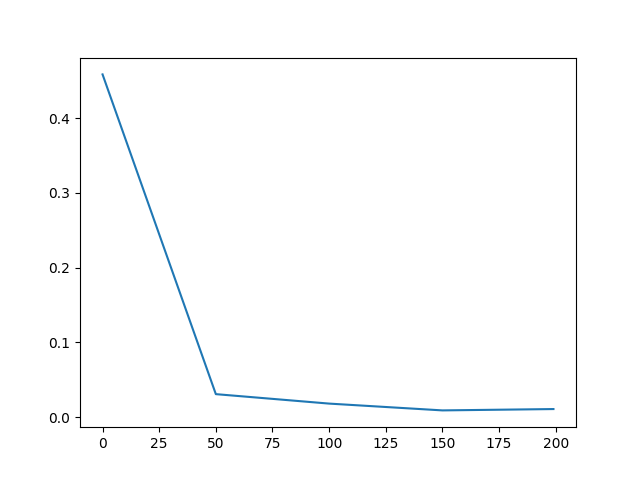
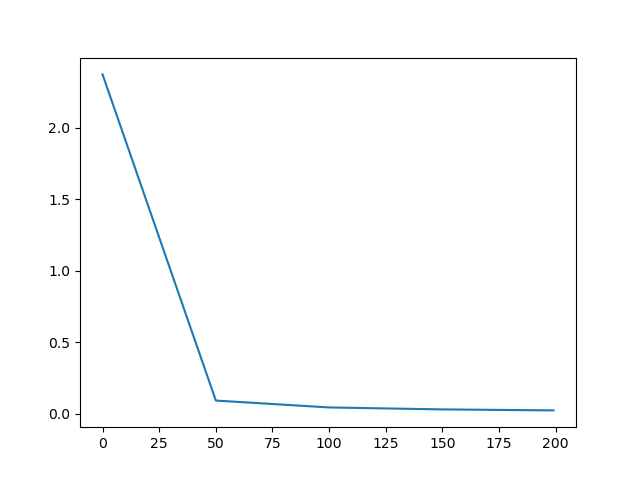
cfr fixed opponent implementation

diff --git a/cfr2.py b/cfr2.py
@@ -10,7 +10,7 @@ from open_spiel.python.algorithms import sequence_form_lp, exploitability
 from open_spiel.python import policy
 import pyspiel
 
-game = pyspiel.load_game("kuhn_poker")
+game = pyspiel.load_game("leduc_poker")
 
 
 #(v1, v2, pi1, pi2) = sequence_form_lp.solve_zero_sum_game(game)
@@ -65,7 +65,7 @@ class Info:
 
     return info
 
-Infoset = dict[tuple[str, int], Info]
+Infoset = dict[str, Info]
 
 def apply_action(state: State, action: int) -> State:
   next_state = state.clone()
@@ -100,6 +100,8 @@ def cfr_player(infoset: Infoset, player: int=0):
 
 def play_match(p0, p1) -> np.ndarray:
 
+  opponent_obs: list[tuple[str, int]] = []
+
   state = game.new_initial_state()
   while not state.is_terminal():
 
@@ -114,6 +116,8 @@ def play_match(p0, p1) -> np.ndarray:
         action = p0(state)
       else:
         action = p1(state)
+        key = state.information_state_string(1)  # infoset with opponent card
+        opponent_obs.append((key, action))
 
       state.apply_action(action)
 
@@ -328,6 +332,98 @@ def cfr_old(infoset: Infoset, state: State, player_i: int, t: int, p0_p: float =
 
   return expected_value_from_this_node
 
+def cfr_vs_fixed_opponent(
+    infosets: Infoset,
+    state: State,
+    learner: int,           # e.g., 0
+    t: int,                 # iteration index (for averaging weights if you like)
+    pi_opp: dict[str, dict[int, float]],  # learned opponent policy: key -> {action: prob}
+    p0: float = 1.0,        # reach prob for P0 up to this node
+    p1: float = 1.0,        # reach prob for P1 up to this node
+    pc: float = 1.0         # reach prob for chance up to this node
+):
+    # terminal
+    if state.is_terminal():
+        return state.rewards()[learner]
+
+    # chance
+    if state.is_chance_node():
+        v = 0.0
+        for a, prob in state.chance_outcomes():
+            child = state.child(a)
+            v += prob * cfr_vs_fixed_opponent(infosets, child, learner, t, pi_opp, p0, p1, pc * prob)
+        return v
+
+    cur = state.current_player()
+
+    # ---------------------------
+    # Opponent node (fixed policy)
+    # ---------------------------
+    if cur != learner:
+        key = state.information_state_string(cur)  # opponent infoset key
+        acts = state.legal_actions()
+
+        # Fetch π̂_opp(a|key); fallback to uniform over legal acts if missing
+        probs = []
+        table = pi_opp.get(key, None)
+        if table is None:
+            probs = np.ones(len(acts)) / len(acts)
+        else:
+            # collect in action order; if an action missing in dict, treat as 0 then renormalize
+            vec = np.array([table.get(a, 0.0) for a in acts], dtype=float)
+            s = vec.sum()
+            if s <= 0:
+                vec = np.ones(len(acts)) / len(acts)
+            else:
+                vec = vec / s
+            probs = vec
+
+        # Expected value under fixed opponent strategy
+        node_v = 0.0
+        for p_a, a in zip(probs, acts):
+            child = state.child(a)
+            if cur == 0:
+                node_v += p_a * cfr_vs_fixed_opponent(infosets, child, learner, t, pi_opp, p0 * p_a, p1, pc)
+            else:  # cur == 1
+                node_v += p_a * cfr_vs_fixed_opponent(infosets, child, learner, t, pi_opp, p0, p1 * p_a, pc)
+        return float(node_v)
+
+    # ---------------------------
+    # Learner node (regret-matching)
+    # ---------------------------
+    info = Info.get_info(infosets, state, cur)  # this creates/stores only learner’s infosets
+    acts = info.legal_actions
+
+    # current strategy from positive regrets (CFR/CFR+)
+    R_plus = np.maximum(info.cum_regret, 0.0)
+    if R_plus.sum() > 0:
+        info.strategy = R_plus / R_plus.sum()
+    else:
+        info.strategy = np.ones(info.n) / info.n
+
+    # recurse on actions
+    util_a = np.zeros(info.n, dtype=float)
+    node_v = 0.0
+    for k, a in enumerate(acts):
+        p_a = info.strategy[k]
+        child = state.child(a)
+        if cur == 0:
+            util_a[k] = cfr_vs_fixed_opponent(infosets, child, learner, t, pi_opp, p0 * p_a, p1, pc)
+        else:
+            util_a[k] = cfr_vs_fixed_opponent(infosets, child, learner, t, pi_opp, p0, p1 * p_a, pc)
+        node_v += p_a * util_a[k]
+
+    # regret update (only for learner)
+    opp_reach = p1 if learner == 0 else p0
+    info.cum_regret += pc * opp_reach * (util_a - node_v)
+    info.cum_regret = np.maximum(info.cum_regret, 0.0)  # CFR+ clamp (optional)
+
+    # average strategy update for learner (you can use linear weighting t if desired)
+    owner_reach = p0 if learner == 0 else p1
+    info.cum_strategy += owner_reach * info.strategy  # or (t+1)*owner_reach for CFR+
+
+    return float(node_v)
+
 
 def create_tabular_policy(infosets):
   tabular_policy= policy.TabularPolicy(game)
@@ -341,25 +437,37 @@ def create_tabular_policy(infosets):
   return tabular_policy
 
 
-def solve():
+def solve(
+      t_max=200,
+      mode: str = "selfplay",   # "selfplay" or "vs_fixed"
+      pi_opp: dict[str, dict[int, float]] = None,
+      opp_player: int = 1):
 
   exploits = []
   vss = []
   steps = []
 
   infoset: Infoset = dict()
-  t_max = 200
 
   for t in tqdm.tqdm(list(range(t_max))):
 
     # Update strategies from cumulative regret for each infonode
     update_strategy(infoset)
-    for i in range(2):
-      state = game.new_initial_state()
-      cfr_old(infoset, state, i, t)
 
+    if mode == "selfplay":
+        for i in (0, 1):
+          state = game.new_initial_state()
+          cfr_old(infoset, state, i, t)
+    elif mode == "vs_fixed":
+        assert pi_opp is not None, "Must provide pi_opp for vs_fixed mode"
+        assert opp_player in (0, 1), "opp_player must be 0 or 1"
 
+        learner = 1 - opp_player
 
+        state = game.new_initial_state()
+        cfr_vs_fixed_opponent(infoset, state, learner, t, pi_opp)
+    else:
+        raise ValueError(f"Unknown mode {mode}")
 
     if (t % 50 == 0) or (t == (t_max - 1)):
 
@@ -377,9 +485,12 @@ def solve():
       steps.append(t)
       exploits.append(e)
       vss.append(vs)
-  return steps, vss, exploits
+  return steps, vss, exploits, infoset
 
-steps, vss, exploits = solve()
+def main():
+    steps, _, exploits, _ = solve()
+    plt.plot(steps, exploits)
+    plt.savefig("exploit.png")
 
-plt.plot(steps, exploits)
-plt.savefig("exploit.png")
+if __name__ == "__main__":
+    main()

diff --git a/opponent_cfr.py b/opponent_cfr.py
@@ -1,0 +1,156 @@
+# opponent_cfr.py
+from collections import defaultdict, Counter
+from typing import Dict, List, Tuple
+import numpy as np
+from tqdm import tqdm
+import matplotlib.pyplot as plt
+import os
+
+from cfr2 import game, cfr_player, random_player, solve, vs_random  # import base CFR components
+
+# Data structures
+# Counts: maps infoset string -> Counter(action_id -> count)
+Counts = Dict[str, Counter]
+# LegalByKey: maps infoset string -> tuple of legal actions (stable)
+LegalByKey = Dict[str, Tuple[int, ...]]
+
+def play_match_with_log(p0, p1) -> Tuple[np.ndarray, List[Tuple[str, int, List[int]]]]:
+    """
+    Like play_match, but also logs the opponent’s (infoset_key, action, legal_actions).
+    Opponent = player 1.
+    """
+    opponent_obs: List[Tuple[str, int, List[int]]] = []
+    state = game.new_initial_state()
+    while not state.is_terminal():
+        if state.is_chance_node():
+            actions, probs = zip(*state.chance_outcomes())
+            a = np.random.choice(actions, p=probs)
+            state.apply_action(a)
+        else:
+            if state.current_player() == 0:
+                a = p0(state)
+            else:
+                a = p1(state)
+                key = state.information_state_string(1)   # infoset string for P1 (includes private card)
+                legal_actions = state.legal_actions()     # list of action ids
+                opponent_obs.append((key, a, legal_actions))
+            state.apply_action(a)
+    return np.array(state.rewards()), opponent_obs
+
+
+def collect_opponent_counts(n_games: int, infoset = None) -> Tuple[Counts, LegalByKey]:
+    """
+    Play multiple games vs a random opponent and collect action counts for P1.
+    Returns:
+      - counts: mapping infoset -> Counter(action -> count)
+      - legal_by_key: mapping infoset -> tuple of legal actions
+    """
+    counts: Counts = defaultdict(Counter)
+    legal_by_key: LegalByKey = {}
+
+    if infoset is None: infoset = {}
+
+    p0 = cfr_player(infoset, player=0)  # our agent (CFR player)
+    p1 = random_player()                   # opponent = random policy
+
+    for _ in tqdm(range(n_games)):
+        _, obs = play_match_with_log(p0, p1)
+        for key, a, legal_actions in obs:
+            # update count for this action
+            counts[key][a] += 1
+
+            # store legal actions (once per infoset)
+            la = tuple(sorted(legal_actions))
+            if key not in legal_by_key:
+                legal_by_key[key] = la
+            else:
+                # optional: sanity check that legal actions are consistent
+                assert legal_by_key[key] == la, f"Inconsistent legal actions for infoset {key}"
+
+    return counts, legal_by_key
+
+
+def estimate_policy_from_counts(
+    counts: Counts,
+    legal_by_key: LegalByKey,
+    laplace: float = 1.0
+) -> Dict[str, Dict[int, float]]:
+    """
+    Estimate the opponent policy π̂(a|I=key) from counts using
+    Maximum Likelihood Estimation + Laplace smoothing.
+    """
+    pi_hat: Dict[str, Dict[int, float]] = {}
+    for key, counter in counts.items():
+        acts = legal_by_key[key]
+        total = sum(counter[a] for a in acts)
+        denom = total + laplace * len(acts)
+        pi_hat[key] = {a: (counter[a] + laplace) / denom for a in acts}
+    return pi_hat
+
+
+def main():
+    counts1, legal_by_key1 = collect_opponent_counts(n_games=10000)
+
+    steps, vss, exploits, infoset = solve(t_max = 1000)
+
+    os.makedirs("opponent_cfr", exist_ok=True)
+    os.makedirs("opponent_cfr/cfr", exist_ok=True)
+
+    plt.figure()
+    plt.plot(steps, exploits)
+    plt.xlabel("CFR Iterations")
+    plt.ylabel("Exploitability")
+    plt.savefig("opponent_cfr/cfr/exploit.png")
+
+    plt.figure()
+    plt.plot(steps, vss)
+    plt.xlabel("CFR Iterations")
+    plt.ylabel("Average Payoff vs Random")
+    plt.savefig("opponent_cfr/cfr/vs_random.png")
+
+    avg_payoff_rand = vs_random(infoset, n_games=10000)
+    print(f"Average payoff vs random after CFR training: {avg_payoff_rand}")
+
+    counts2, legal_by_key2 = collect_opponent_counts(n_games=10000, infoset=infoset)
+
+    # Merge counts and legal actions from both phases
+    counts = counts1
+    for key, counter in counts2.items():
+        counts[key].update(counter)
+    legal_by_key = legal_by_key1
+    for key, la in legal_by_key2.items():
+        if key not in legal_by_key:
+            legal_by_key[key] = la
+        else:
+            assert legal_by_key[key] == la, f"Inconsistent legal actions for infoset {key}"
+    
+
+    pi_hat = estimate_policy_from_counts(counts, legal_by_key)
+
+    # Example: print one estimated policy
+    some_key = next(iter(pi_hat))
+    print("Example infoset:", some_key)
+    print("Legal actions:", legal_by_key[some_key])
+    print("Estimated π̂:", pi_hat[some_key])
+
+    steps_rand, vss_rand, exploits_rand, infoset_rand = solve(t_max = 1000, mode="vs_fixed", pi_opp=pi_hat, opp_player = 1)
+
+    os.makedirs("opponent_cfr/fixed_opp", exist_ok=True)
+
+    plt.figure()
+    plt.plot(steps_rand, exploits_rand)
+    plt.xlabel("CFR Iterations")
+    plt.ylabel("Exploitability")
+    plt.savefig("opponent_cfr/fixed_opp/exploit.png")
+
+    plt.figure()
+    plt.plot(steps_rand, vss_rand)
+    plt.xlabel("CFR Iterations")
+    plt.ylabel("Average Payoff vs Random")
+    plt.savefig("opponent_cfr/fixed_opp/vs_random.png")
+
+    avg_payoff_rand = vs_random(infoset_rand, n_games=10000)
+    print(f"Average payoff vs random after CFR training against fixed opponent: {avg_payoff_rand}")
+
+if __name__ == "__main__":
+    main()
